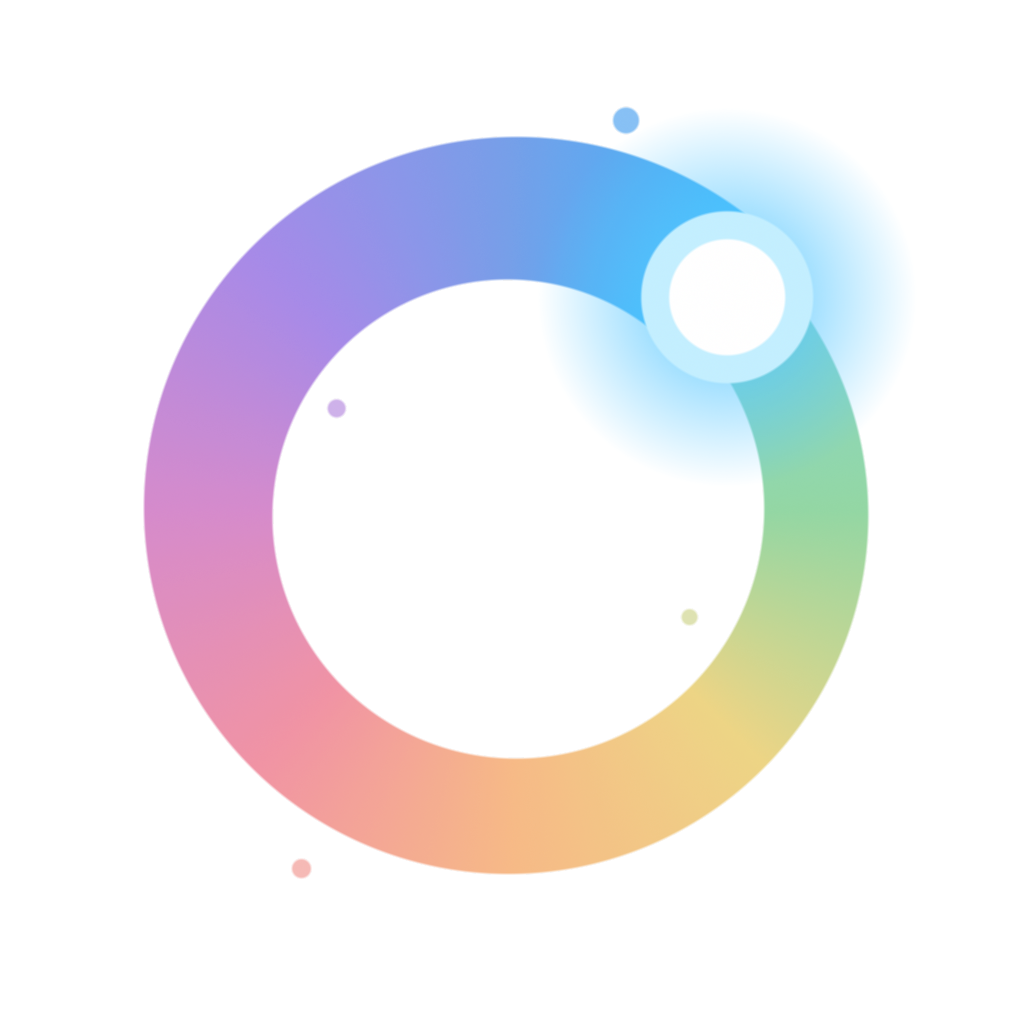
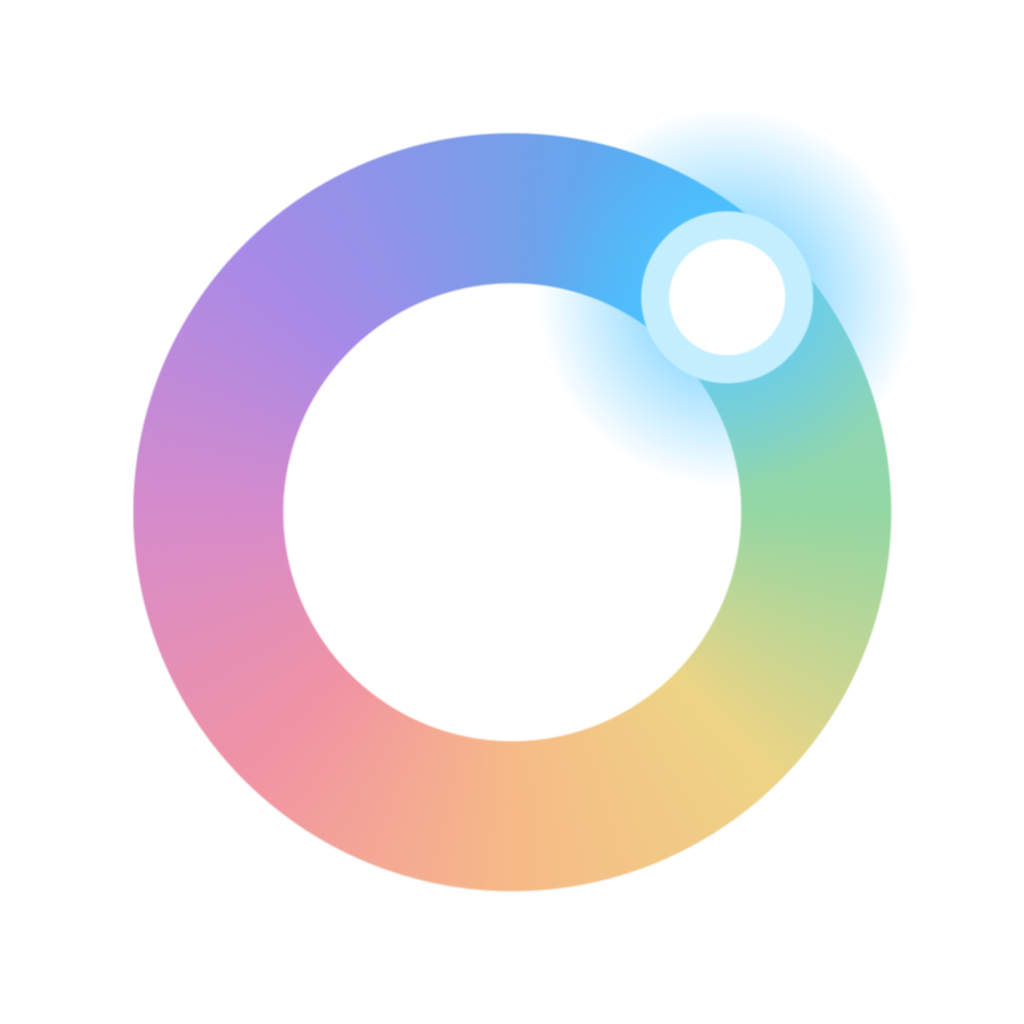
图标去掉光点，渐变环改为固定宽度

diff --git a/assets/render_icon.py b/assets/render_icon.py
@@ -21,7 +21,7 @@ CX = CY = S / 2
 R = 304.0 * 2
 HEAD_DEG = -45.0
 TAIL_SWEEP = 360.0
-W_HEAD, W_TAIL = 150.0 * 2, 100.0 * 2
+W_BAND = 150.0 * 2
 EDGE = 2.4                # soft-edge half-width in supersampled pixels
 
 # The first icon's colour wheel, saturated a touch: hues spaced evenly
@@ -51,12 +51,11 @@ in_tail = delta <= TAIL_SWEEP
 tc = np.clip(t, 0.0, 1.0)
 
 # --- ring band ---------------------------------------------------------------
-# The band spans the full circle; where t wraps from 1 back to 0 the width and
-# opacity step, but that seam sits exactly at the head's angular position and
-# the opaque head disc covers it.
-width = W_TAIL + (W_HEAD - W_TAIL) * tc ** 1.2
+# Constant width around the full circle; where t wraps from 1 back to 0 the
+# opacity steps, but that seam sits exactly at the head's angular position
+# and the opaque head disc covers it.
 dist = np.abs(r - R)
-coverage = np.clip((width / 2 + EDGE - dist) / (2 * EDGE), 0.0, 1.0)
+coverage = np.clip((W_BAND / 2 + EDGE - dist) / (2 * EDGE), 0.0, 1.0)
 fade = 0.72 + 0.28 * tc ** 1.3
 tail_a = np.where(in_tail, coverage * fade, 0.0)
 
@@ -88,39 +87,11 @@ for (t0, c0), (t1, c1) in zip(STOPS, STOPS[1:]):
 over(tail_a, [tail_rgb[..., 0], tail_rgb[..., 1], tail_rgb[..., 2]])
 
 
-def colour_at(t):
-    for (t0, c0), (t1, c1) in zip(STOPS, STOPS[1:]):
-        if t <= t1:
-            k = 0 if t1 == t0 else (t - t0) / (t1 - t0)
-            return tuple(a + (b - a) * k for a, b in zip(c0, c1))
-    return STOPS[-1][1]
-
-
-def angle(t):
-    return HEAD_DEG - TAIL_SWEEP * (1 - t)
-
-
-def disc_at(cx, cy, radius, colour, a_max=1.0):
+def disc_at(cx, cy, radius, colour):
     d = np.hypot(xx - cx, yy - cy)
-    a = np.clip((radius + EDGE - d) / (2 * EDGE), 0.0, 1.0) * a_max
+    a = np.clip((radius + EDGE - d) / (2 * EDGE), 0.0, 1.0)
     over(a, [np.full((S, S), c) for c in colour])
 
-
-# --- sparkles in the wake ----------------------------------------------------
-# (position along the tail, radial offset from the ring, radius, opacity).
-# Colours follow the tail at that point, lightened toward white.
-SPARKS = [
-    (0.92,  104.0, 13.0, 0.95),
-    (0.71, -100.0,  9.0, 0.80),
-    (0.46,  110.0,  9.5, 0.80),
-    (0.21,  -98.0,  8.0, 0.70),
-]
-for st, off, rad, a_max in SPARKS:
-    ang = np.radians(angle(st))
-    scx = CX + (R + off * 2) * np.cos(ang)
-    scy = CY + (R + off * 2) * np.sin(ang)
-    c = tuple(v + (255 - v) * 0.25 for v in colour_at(st))
-    disc_at(scx, scy, rad * 2, c, a_max)
 
 # --- head --------------------------------------------------------------------
 hx = CX + R * np.cos(np.radians(HEAD_DEG))
